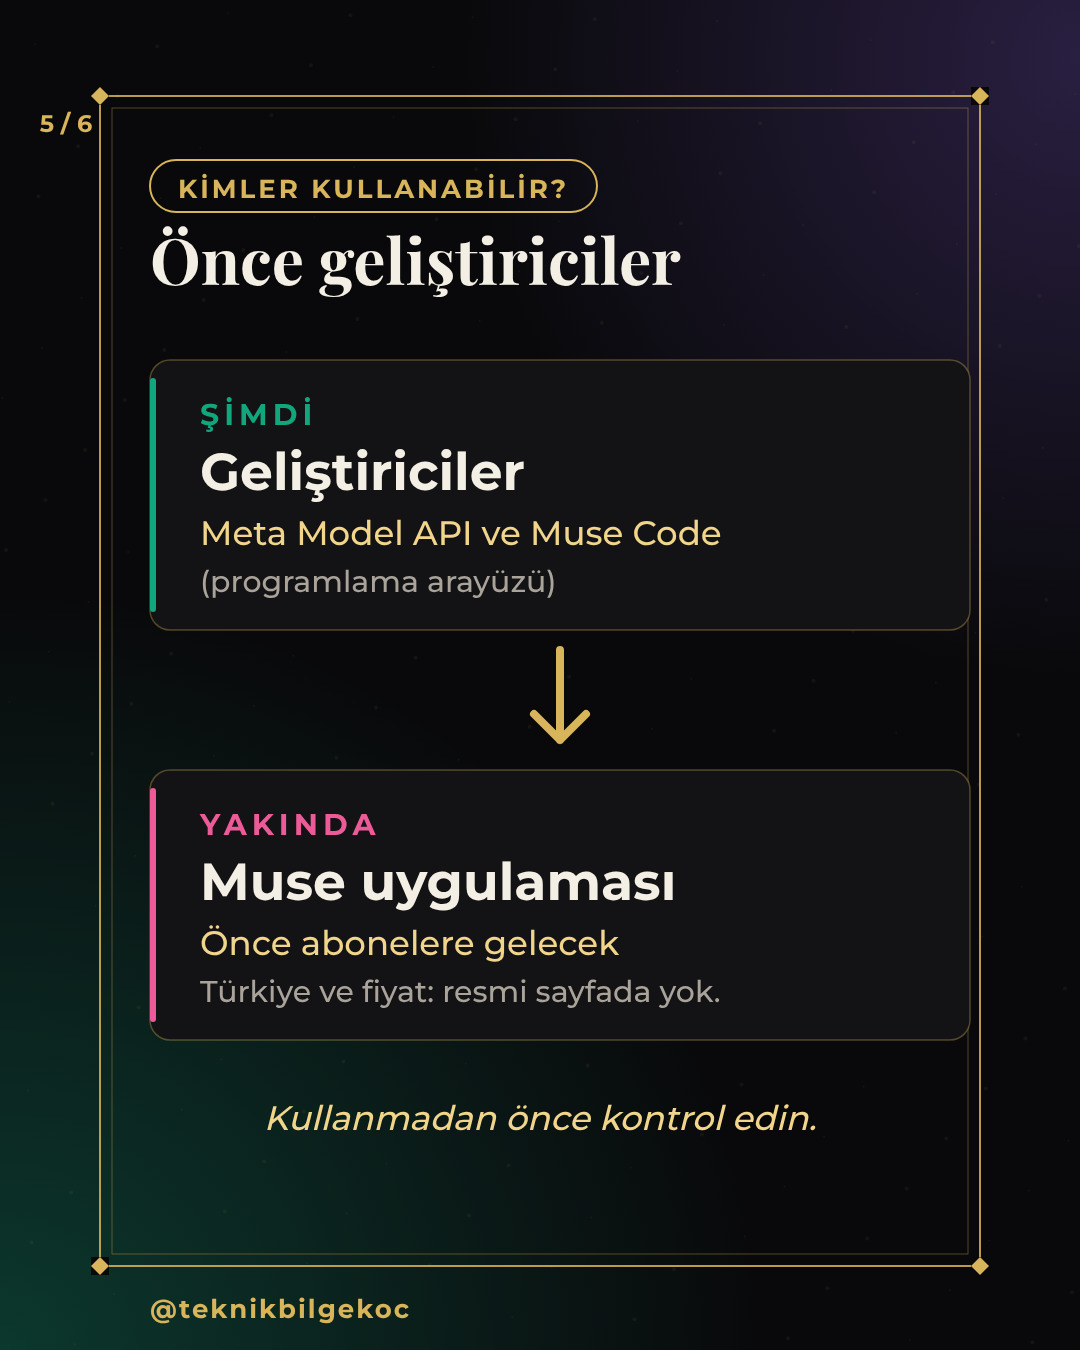
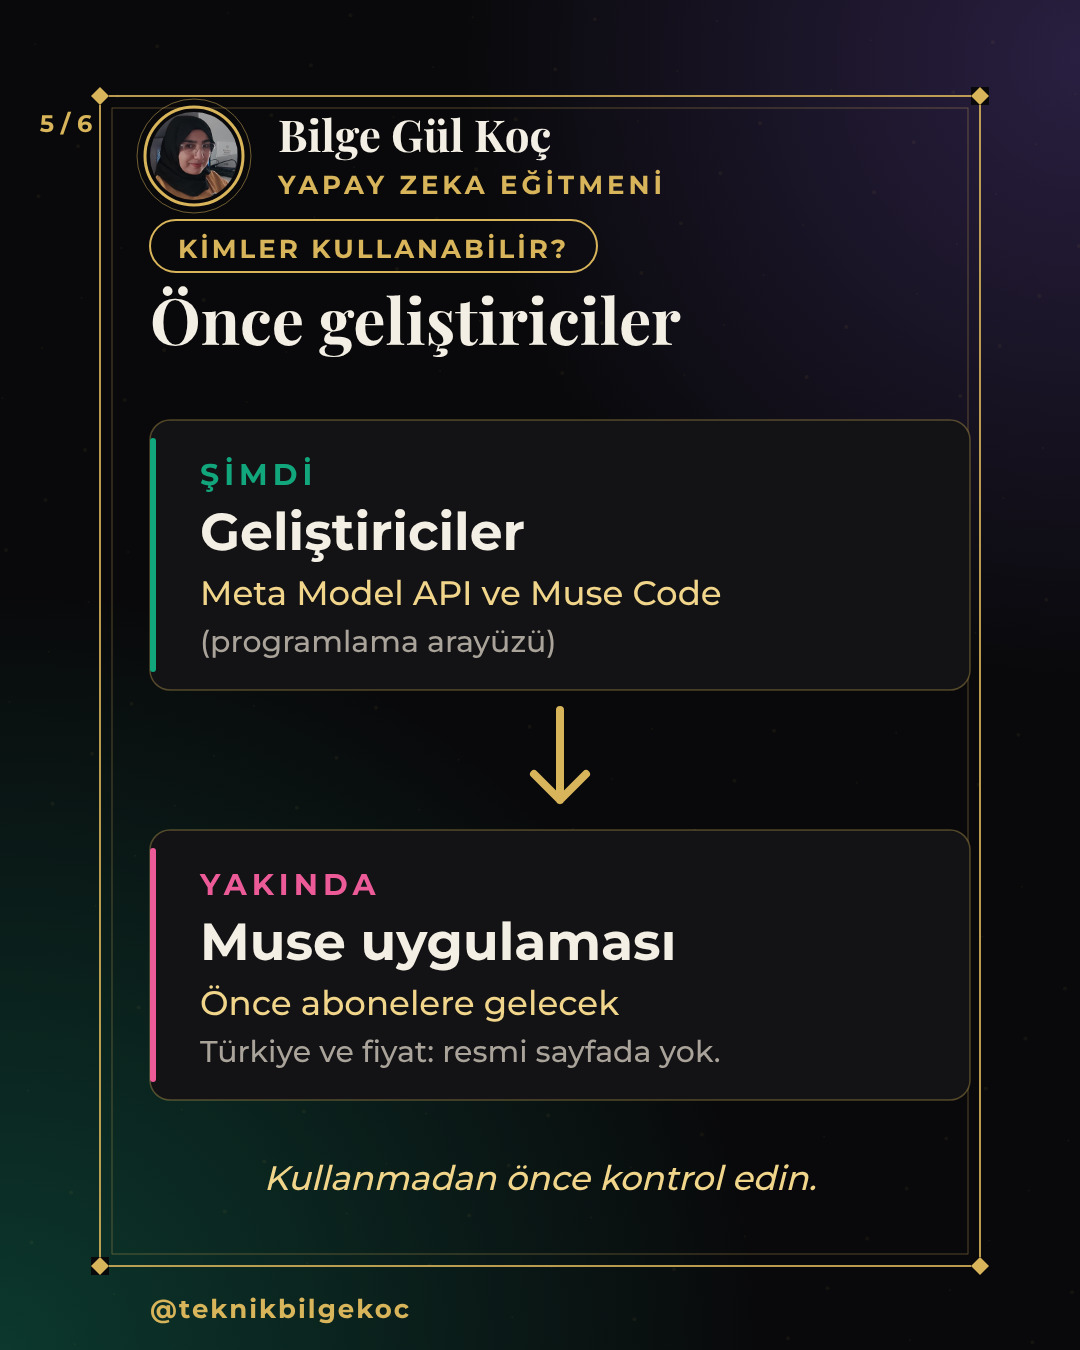
Deneme karuseli: tüm slaytlara profil rozeti
Claude-Session: https://claude.ai/code/session_01JaGdhEQurBXJ4ps3vmXo5q

diff --git a/2026-10-13-deneme/s4.js b/2026-10-13-deneme/s4.js
@@ -1,4 +1,6 @@
-const baslik = (k, t, col) => { chip(k, 150, 190, col); serif(t, 150, 285, { size: 64, color: C.ivory }); };
+let MARK = 0;
+const baslik = (k, t, col) => { profil(150, 112, 88); chip(k, 150, 250, col); serif(t, 150, 345, { size: 64, color: C.ivory }); MARK = svg.childNodes.length; };
+const kaydir = () => { const G = g({ transform: 'translate(0,60)' }); [...svg.childNodes].slice(MARK, -1).forEach(n => G.appendChild(n)); };
 const balon = (x, y, w, col, n = 3, ok = 'sol') => {
   el('rect', { x, y, width: w, height: 90, rx: 34, fill: '#1B0F24', stroke: col, 'stroke-width': 5 });
   for (let k = 0; k < n; k++) C2(svg, x + 40 + k * 34, y + 45, 10, col);
@@ -11,7 +13,7 @@ async function build() {
   const y0 = 640;
   P(svg, `M200 ${y0} H420`, 'none', { stroke: C.goldHi, 'stroke-width': 8, 'stroke-linecap': 'round' });
   el('rect', { x: 420, y: y0 - 60, width: 50, height: 120, rx: 10, fill: C.pink });
-  text('ENGEL', 445, y0 + 100, { size: 28, weight: 700, color: C.pink, anchor: 'middle', ls: 3 });
+  text('ENGEL', 335, y0 - 40, { size: 28, weight: 700, color: C.pink, anchor: 'middle', ls: 3 });
   P(svg, `M420 ${y0} Q420 ${y0 - 200} 560 ${y0 - 200} T 700 ${y0}`, 'none', { stroke: C.emerald, 'stroke-width': 8, 'stroke-dasharray': '3 18', 'stroke-linecap': 'round' });
   P(svg, `M420 ${y0} Q420 ${y0 + 200} 560 ${y0 + 200} T 700 ${y0}`, 'none', { stroke: C.emerald, 'stroke-width': 8, 'stroke-dasharray': '3 18', 'stroke-linecap': 'round' });
   P(svg, `M700 ${y0} H780`, 'none', { stroke: C.goldHi, 'stroke-width': 8, 'stroke-linecap': 'round' });
@@ -23,6 +25,7 @@ async function build() {
   card(150, 1000, 820, 170, C.gold);
   text('Önemli adımdan önce', 200, 1070, { size: 40, weight: 700, color: C.ivory });
   text('sizi bilgilendirir, gerekirse sorar.', 200, 1125, { size: 36, color: C.goldHi });
+  kaydir();
   done();
 }
 build();

diff --git a/2026-10-13-deneme/s3.js b/2026-10-13-deneme/s3.js
@@ -1,4 +1,6 @@
-const baslik = (k, t, col) => { chip(k, 150, 190, col); serif(t, 150, 285, { size: 64, color: C.ivory }); };
+let MARK = 0;
+const baslik = (k, t, col) => { profil(150, 112, 88); chip(k, 150, 250, col); serif(t, 150, 345, { size: 64, color: C.ivory }); MARK = svg.childNodes.length; };
+const kaydir = () => { const G = g({ transform: 'translate(0,60)' }); [...svg.childNodes].slice(MARK, -1).forEach(n => G.appendChild(n)); };
 const balon = (x, y, w, col, n = 3, ok = 'sol') => {
   el('rect', { x, y, width: w, height: 90, rx: 34, fill: '#1B0F24', stroke: col, 'stroke-width': 5 });
   for (let k = 0; k < n; k++) C2(svg, x + 40 + k * 34, y + 45, 10, col);
@@ -19,6 +21,7 @@ async function build() {
   adim(585, 'ADIM 2', 'Model saklar', 'Önemli bilgileri ayıklar.', C.gold, (x, y, c) => { P(svg, `M${x - 22} ${y - 34} h44 v68 l-22 -18 l-22 18 z`, 'none', { stroke: c, 'stroke-width': 5, 'stroke-linejoin': 'round' }); });
   adim(820, 'ADIM 3', 'Gerektiğinde hatırlatır', 'Doğru anda, doğru bilgiyi.', C.pink, (x, y, c) => { C2(svg, x, y - 8, 22, 'none', { stroke: c, 'stroke-width': 5 }); P(svg, `M${x - 12} ${y + 22} h24 M${x - 8} ${y + 34} h16`, 'none', { stroke: c, 'stroke-width': 5, 'stroke-linecap': 'round' }); });
   text('Meta\'nın tanımı: "aktif hafıza"', 540, 1120, { size: 32, italic: true, color: C.goldHi, anchor: 'middle' });
+  kaydir();
   done();
 }
 build();

diff --git a/2026-10-13-deneme/s6.js b/2026-10-13-deneme/s6.js
@@ -1,4 +1,6 @@
-const baslik = (k, t, col) => { chip(k, 150, 190, col); serif(t, 150, 285, { size: 64, color: C.ivory }); };
+let MARK = 0;
+const baslik = (k, t, col) => { profil(150, 112, 88); chip(k, 150, 250, col); serif(t, 150, 345, { size: 64, color: C.ivory }); MARK = svg.childNodes.length; };
+const kaydir = () => { const G = g({ transform: 'translate(0,60)' }); [...svg.childNodes].slice(MARK, -1).forEach(n => G.appendChild(n)); };
 const balon = (x, y, w, col, n = 3, ok = 'sol') => {
   el('rect', { x, y, width: w, height: 90, rx: 34, fill: '#1B0F24', stroke: col, 'stroke-width': 5 });
   for (let k = 0; k < n; k++) C2(svg, x + 40 + k * 34, y + 45, 10, col);
@@ -21,6 +23,7 @@ async function build() {
   el('path', { d: 'M190 925 h28 v50 l-14 -11 l-14 11 z', fill: C.gold });
   serif('Kaydedin, meslektaşınıza gönderin.', 244, 975, { size: 36, weight: 600, italic: true, color: C.goldHi });
   text('Kaynak ve ayrıntılar açıklamada.', 540, 1100, { size: 30, italic: true, color: C.muted, anchor: 'middle' });
+  kaydir();
   done();
 }
 build();

diff --git a/2026-10-13-deneme/s5.js b/2026-10-13-deneme/s5.js
@@ -1,4 +1,6 @@
-const baslik = (k, t, col) => { chip(k, 150, 190, col); serif(t, 150, 285, { size: 64, color: C.ivory }); };
+let MARK = 0;
+const baslik = (k, t, col) => { profil(150, 112, 88); chip(k, 150, 250, col); serif(t, 150, 345, { size: 64, color: C.ivory }); MARK = svg.childNodes.length; };
+const kaydir = () => { const G = g({ transform: 'translate(0,60)' }); [...svg.childNodes].slice(MARK, -1).forEach(n => G.appendChild(n)); };
 const balon = (x, y, w, col, n = 3, ok = 'sol') => {
   el('rect', { x, y, width: w, height: 90, rx: 34, fill: '#1B0F24', stroke: col, 'stroke-width': 5 });
   for (let k = 0; k < n; k++) C2(svg, x + 40 + k * 34, y + 45, 10, col);
@@ -19,6 +21,7 @@ async function build() {
   text('Önce abonelere gelecek', 200, 955, { size: 34, color: C.goldHi });
   text('Türkiye ve fiyat: resmi sayfada yok.', 200, 1002, { size: 30, color: C.muted });
   text('Kullanmadan önce kontrol edin.', 540, 1130, { size: 34, italic: true, color: C.goldHi, anchor: 'middle' });
+  kaydir();
   done();
 }
 build();

diff --git a/2026-10-13-deneme/s2.js b/2026-10-13-deneme/s2.js
@@ -1,4 +1,6 @@
-const baslik = (k, t, col) => { chip(k, 150, 190, col); serif(t, 150, 285, { size: 64, color: C.ivory }); };
+let MARK = 0;
+const baslik = (k, t, col) => { profil(150, 112, 88); chip(k, 150, 250, col); serif(t, 150, 345, { size: 64, color: C.ivory }); MARK = svg.childNodes.length; };
+const kaydir = () => { const G = g({ transform: 'translate(0,60)' }); [...svg.childNodes].slice(MARK, -1).forEach(n => G.appendChild(n)); };
 const balon = (x, y, w, col, n = 3, ok = 'sol') => {
   el('rect', { x, y, width: w, height: 90, rx: 34, fill: '#1B0F24', stroke: col, 'stroke-width': 5 });
   for (let k = 0; k < n; k++) C2(svg, x + 40 + k * 34, y + 45, 10, col);
@@ -13,6 +15,7 @@ async function build() {
   P(svg, 'M770 440 l38 30 l-52 20 z', C.pink, {});
   text('Aynı bilgi, yine ve yine.', 540, 1090, { size: 46, weight: 700, color: C.goldHi, anchor: 'middle' });
   text('Her yeni sohbette baştan anlatırdınız.', 540, 1160, { size: 34, color: C.muted, anchor: 'middle' });
+  kaydir();
   done();
 }
 build();
